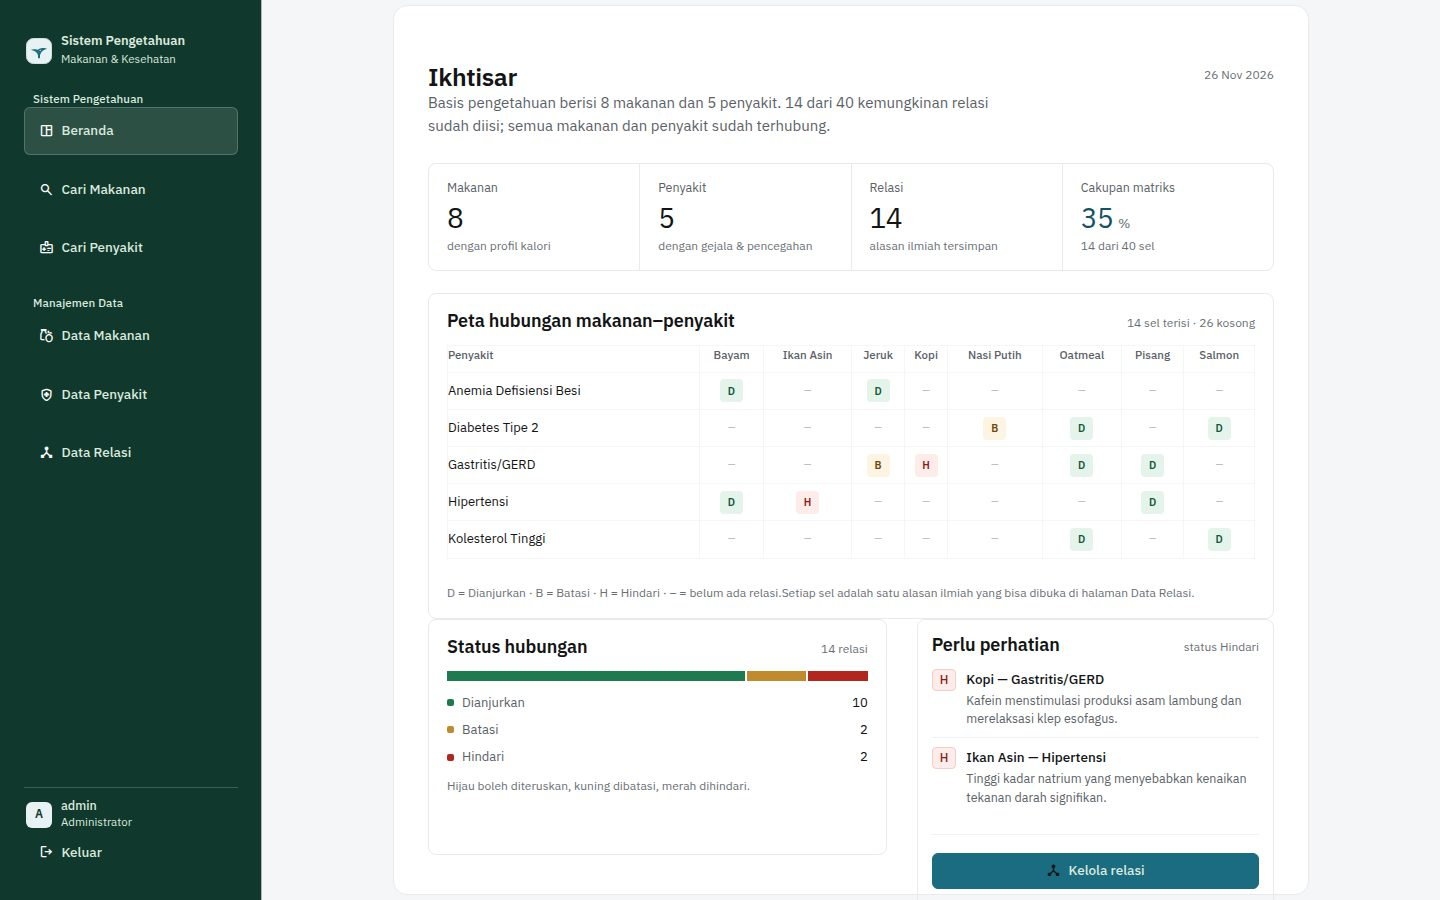
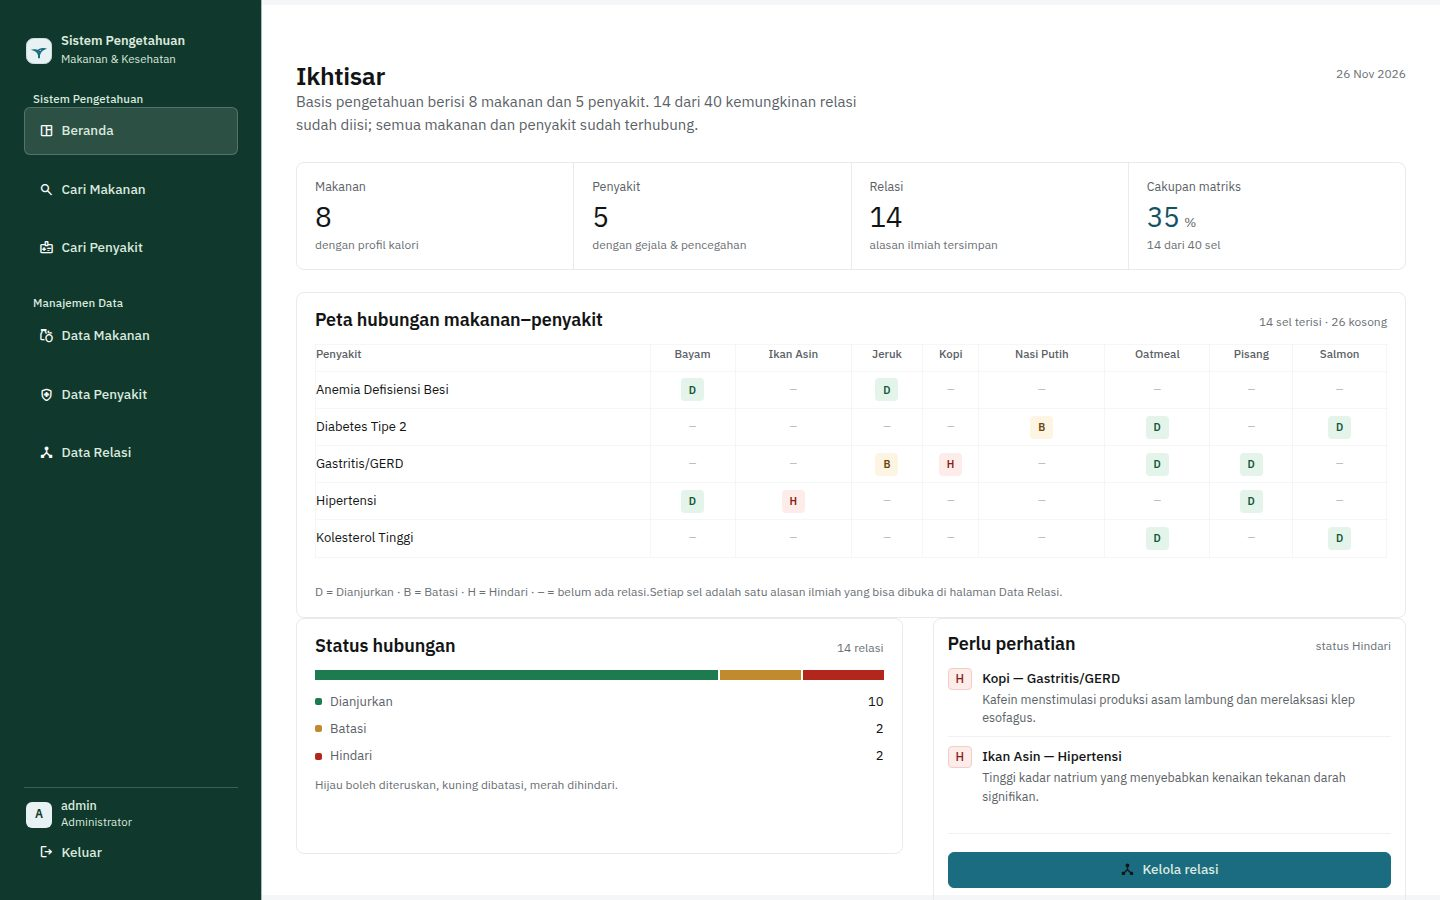
Initial commit: Sistem Pengetahuan Makanan dan Kesehatan

diff --git a/components/styles.py b/components/styles.py
@@ -89,14 +89,14 @@ header[data-testid="stHeader"] {
 
 /* The page is a white sheet inset in the tinted frame. */
 [data-testid="stMainBlockContainer"] {
-   width: calc(100% - 262px);
+   width: 100%;
    max-width: none;
-   min-width: 600px;
+   min-width: 0;
    margin: 0.35rem 0;
    padding: 26px 34px 64px;
    background: var(--sheet);
-   border: 1px solid var(--border);
-   border-radius: var(--r-sheet);
+   border: none;
+   border-radius: 0;
    min-height: calc(100vh - 4rem);
 }
 [data-testid="stMain"] { background: var(--ground); }
